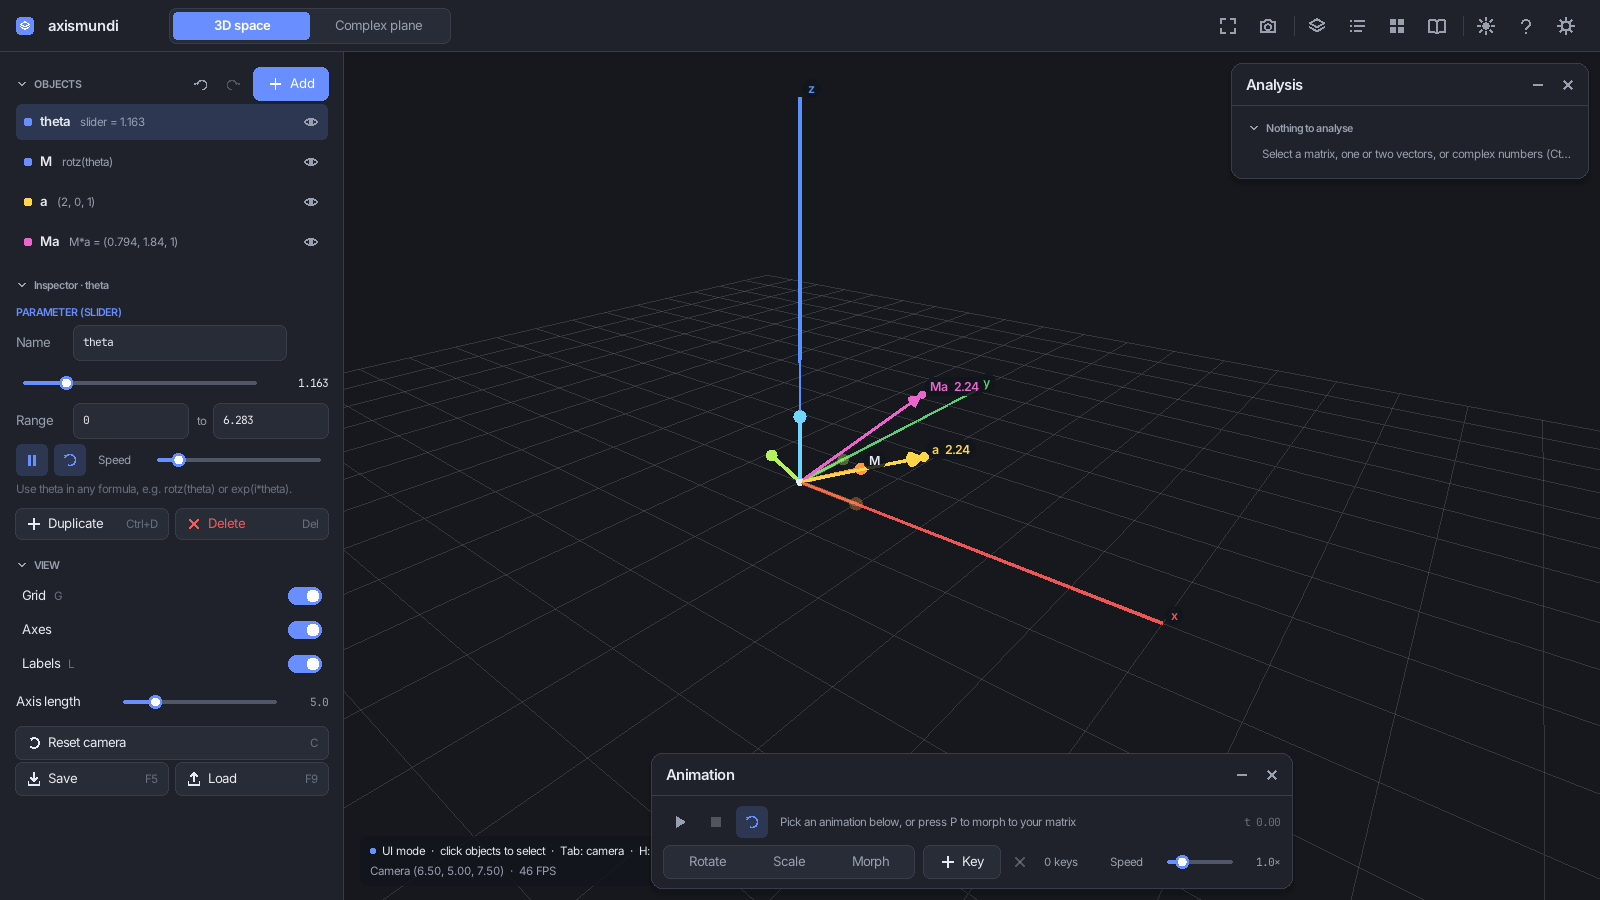
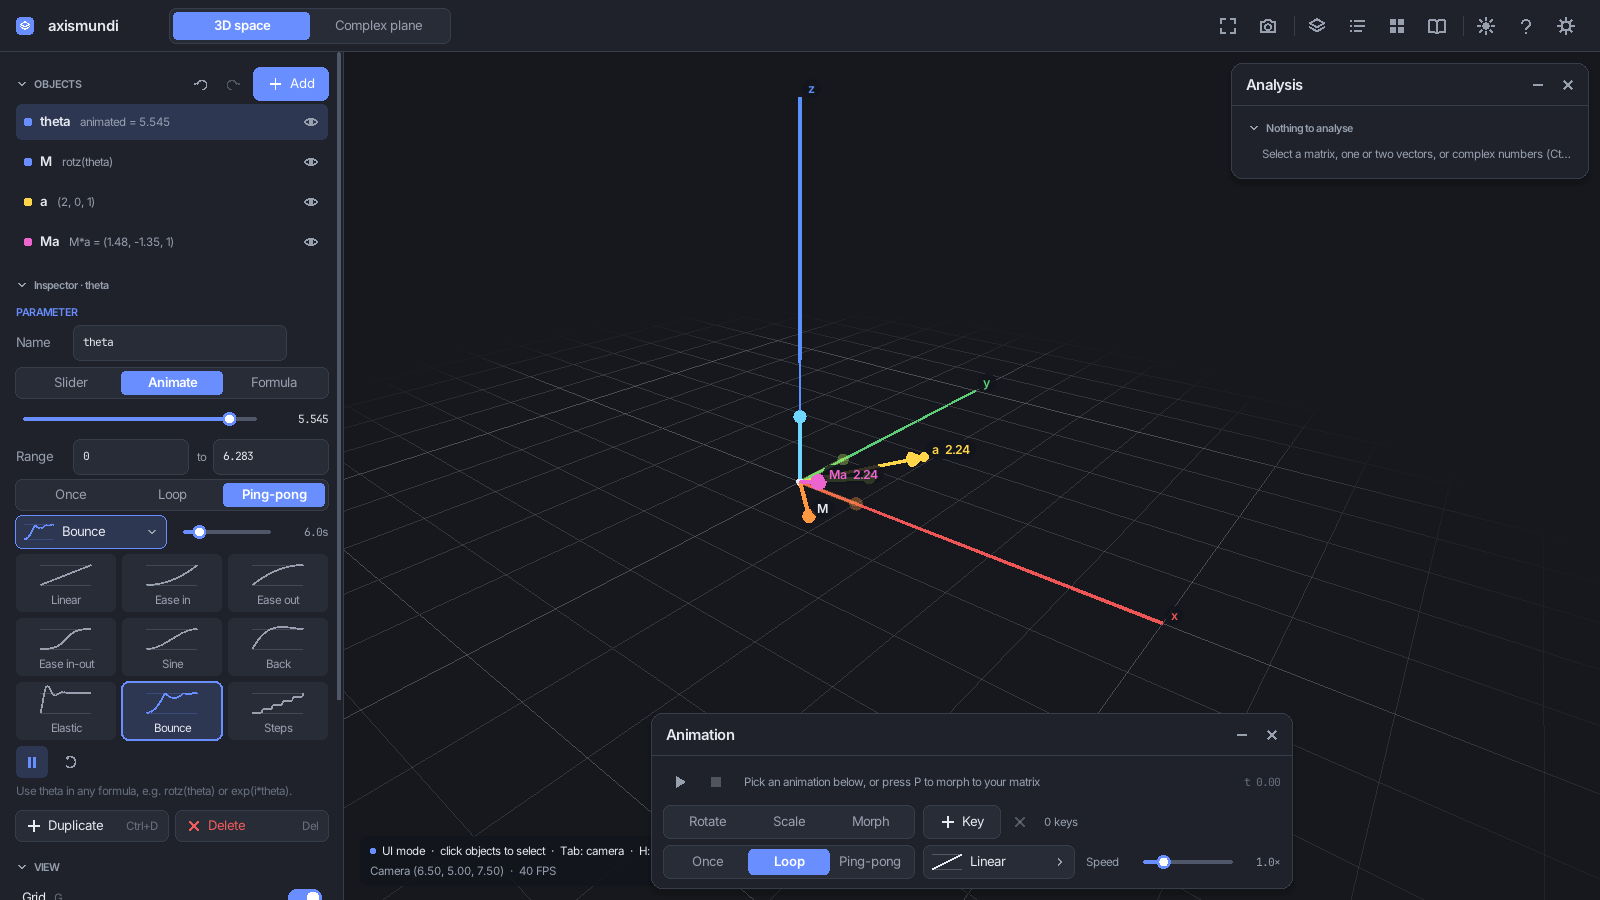
content and docs: parameter modes, easing, plot detail, grid size
- Gallery: Pendulum (a parameter that is a formula of time) and Stretch
  back and forth (ping-pong with ease-in-out, det stays 1)
- Tutorial (Parameters): steps for repeat + easing and for a formula of t
- README, UI_GUIDE, QUICKSTART: parameter modes, easing, per-unit plot
  detail, grid size; CLAUDE.md: provideSlots, Playback, density and the
  mesh lifetime
- Tour: pendulum shot; refreshed parameters and surface screenshots

diff --git a/src/edu/Examples.cpp b/src/edu/Examples.cpp
@@ -77,6 +77,33 @@ std::vector<Example> build() {
                         app.addObject(AppMode::Space3D, "vector", "Ma", {{"value", "M*a"}}, {{"mode", "formula"}});
                         app.select("theta");
                     }});
+    list.push_back({"Pendulum (formula of time)", C::Matrices,
+                    "θ is a formula of time: θ = π/4·cos(2t). The arm r hangs from (0, 0, 4) and swings with it; "
+                    "edit the formula to change the swing.",
+                    [](App& app) {
+                        fresh(app, AppMode::Space3D);
+                        app.addObject(AppMode::Space3D, "parameter", "theta", {{"formula", "pi/4*cos(2t)"}},
+                                      {{"mode", "formula"}, {"playing", "1"}});
+                        app.addObject(AppMode::Space3D, "vector", "r",
+                                      {{"value", "[3sin(theta), 0, -3cos(theta)]"}, {"tail", "[0, 0, 4]"}},
+                                      {{"mode", "formula"}});
+                        app.select("theta");
+                    }});
+    list.push_back({"Stretch back and forth", C::Matrices,
+                    "s runs from 0.5 to 2 and back (ping-pong) with an ease-in-out curve. M = diag(s, 1/s, 1) "
+                    "stretches one way and squeezes the other, so areas stay the same: det M = 1.",
+                    [](App& app) {
+                        fresh(app, AppMode::Space3D);
+                        app.addObject(AppMode::Space3D, "parameter", "s", {},
+                                      {{"value", "0.5"}, {"min", "0.5"}, {"max", "2"}, {"mode", "animate"},
+                                       {"anim.repeat", "2"}, {"anim.easing", "3"}, {"anim.duration", "3"},
+                                       {"playing", "1"}});
+                        app.addObject(AppMode::Space3D, "matrix", "M", {{"value", "scale(s, 1/s, 1)"}},
+                                      {{"mode", "formula"}});
+                        app.addObject(AppMode::Space3D, "vector", "a", {{"x", "1"}, {"y", "1"}, {"z", "0"}});
+                        app.addObject(AppMode::Space3D, "vector", "Ma", {{"value", "M*a"}}, {{"mode", "formula"}});
+                        app.select("s");
+                    }});
     list.push_back({"Non-uniform scale", C::Matrices,
                     "Stretches x by 2 and squeezes y to half. The axes are eigenvectors with λ = 2, 0.5 and 1.",
                     [](App& app) { matrixScene(app, Matrix3D({{{{2, 0, 0}}, {{0, 0.5f, 0}}, {{0, 0, 1}}}})); }});

diff --git a/src/edu/Tutorial.cpp b/src/edu/Tutorial.cpp
@@ -209,6 +209,28 @@ std::vector<Lesson> build() {
              return p && (p->playing() || std::fabs(p->number() - 0.5) > 0.2);
          },
          "The play button is in theta's inspector. Dragging the slider works too.", "parameter.play"},
+        {"Repeat and easing",
+         "Playing switched theta to Animate: it runs from min to max. Ping-pong runs back and forth, and the easing "
+         "curve shapes the motion (Ease in-out starts and stops gently, Bounce bounces at the end).",
+         nullptr, "Choose Ping-pong and a different easing for theta.",
+         [](App& app, const TutorialContext&) {
+             auto* p = dynamic_cast<scene::ParameterObject*>(app.object("theta"));
+             if (!p) return false;
+             Playback pb = p->playback();
+             return pb.repeat == Repeat::PingPong && pb.easing != Easing::Linear;
+         },
+         "Both are in theta's inspector, under the range, when the mode is Animate.", "parameter.easing"},
+        {"A formula of time",
+         "A parameter can also be a formula of t, its own clock in seconds. pi/4*sin(2t) swings back and forth "
+         "between ±45°; t/2 grows forever.",
+         nullptr, "Switch theta to Formula and type a formula that uses t, e.g. pi/4*sin(2t).",
+         [](App& app, const TutorialContext&) {
+             auto* p = dynamic_cast<scene::ParameterObject*>(app.object("theta"));
+             if (!p || p->mode() != scene::ParameterObject::Mode::Formula || !p->error().empty()) return false;
+             const scene::Field* f = p->field("formula");
+             return f && f->program.valid();
+         },
+         "The mode switch is at the top of theta's inspector. Press Play if the clock is paused.", "parameter.mode"},
     }});
 
     list.push_back({"Breaking a matrix down", "Rotate, stretch, rotate", {

diff --git a/src/app/Tour.cpp b/src/app/Tour.cpp
@@ -103,6 +103,10 @@ void Tour::buildSteps() {
     step("09b_animation_easing", [](App& app) {
         app.setAnimationStyle(Repeat::PingPong, Easing::Elastic, true);
     }, 40);
+    step("09c_pendulum", [](App& app) {
+        app.setAnimationStyle(Repeat::Loop, Easing::Linear, false);
+        runExample(app, "Pendulum (formula of time)");
+    }, 50);
     step("10_projection_example", [](App& app) {
         app.setAnimationStyle(Repeat::Loop, Easing::Linear, false);
         app.stopAnimation();

diff --git a/UI_GUIDE.md b/UI_GUIDE.md
@@ -69,8 +69,8 @@ Each space has its own list of objects. The side bar shows:
 | Vector | 3D | Components (x, y, z) or Formula; Starts at (tail point); length |
 | Matrix | 3D | Cells (3×3 / 4×4, presets) or Formula; determinant |
 | Eigenvectors | 3D | Matrix formula (e.g. `M`); dashed lines with dots at λv |
-| Function / Curve / Surface / Implicit | 3D | Expressions in x, y, t; ranges; Detail; Heat map; Next example |
-| Parameter | both | Slider, range, play / loop / speed |
+| Function / Curve / Surface / Implicit | 3D | Expressions in x, y, t; ranges; Detail per unit; Heat map; Next example |
+| Parameter | both | Slider / Animate / Formula; range; repeat style, easing, duration; play, restart |
 | Complex number | complex | Value; circle, cos/sin projections, helix options; length and angle |
 | Product | complex | Two factors; rotation and scaling construction; length and angle breakdown |
 
@@ -90,8 +90,25 @@ Problems are shown live: a red outline while typing a broken formula, an error l
 red summary in the list for errors such as unknown names, wrong types or circular references.
 
 ### Parameters
-A parameter is a named number with a slider. Use it in any formula; press **Play** to run it through its
-range (Loop restarts it at the end, Speed sets how fast). Several parameters can play at once.
+A parameter is a named number that can be used in any formula. The switch at the top of its inspector picks
+how it is driven:
+- **Slider**: set it by hand within its range.
+- **Animate**: Play runs it from min to max.
+  - **Once** stops at the end, **Loop** starts again, **Ping-pong** runs back and forth.
+  - The **easing** button opens a grid of curves: Linear, Ease in, Ease out, Ease in-out, Sine, Back
+    (overshoots), Elastic, Bounce and Steps. Hover one to read what it does.
+  - The slider next to it sets the duration of one run.
+- **Formula**: the value is a formula of `t`, the parameter's own clock in seconds, and may use other objects.
+  Examples: `2pi*t/5` (one turn every 5 s), `pi/4*sin(2t)`, `1 + k*cos(t)`. Play / pause runs the clock,
+  restart sets t back to 0, and "Wrap t after" can restart it periodically.
+
+Pressing Play on a slider switches it to Animate. Several parameters can play at once.
+
+### Plot detail
+**Detail** is set per unit of the range: samples per unit of x (functions) or t (curves), and grid cells per
+unit for surfaces and implicit curves. Doubling the range doubles the samples, so the plot stays as smooth.
+The line under the slider shows the actual count. Counts are capped for speed (20 000 samples, 400 × 400
+surface cells, 800 × 800 implicit cells), and the line says so when the cap applies.
 
 ## Text fields
 
@@ -105,7 +122,10 @@ range (Loop restarts it at the end, Speed sets how fast). Several parameters can
 z points up and the floor grid is the xy-plane, the usual math convention, so vectors and surfaces
 `z = f(x, y)` agree. The axes are x (red), y (green), z (blue). Matrices are drawn as their moved basis on top
 of the faint original basis. The Animation panel morphs the selected matrix (or the first one) from the
-identity.
+identity, with a repeat style (Once / Loop / Ping-pong) and an easing curve.
+
+The floor grid has a line every unit and a stronger one every 5 units, and fades out at its edge. **Grid size**
+in the View section sets how far it reaches (±5 to ±100 units).
 
 ## The complex plane
 
@@ -124,7 +144,7 @@ reference. Each tab keeps its own camera.
 
 ## View section
 
-- Grid (G), Axes, Labels (L), Axis length, Reset camera (C), Save (F5) / Load (F9) of `scene.txt`
+- Grid (G), Axes, Labels (L), Axis length, Grid size, Reset camera (C), Save (F5) / Load (F9) of `scene.txt`
 - Object colors are set per object: click the color swatch next to the name in the inspector (presets, hex
   value, "Theme color" resets it).
 

diff --git a/README.md b/README.md
@@ -15,8 +15,12 @@ and worked calculations.
   `Ma = M*a`, a matrix cell `cos(theta)`, a whole matrix `rotz(theta)` or `[u, v, w]` (vectors as columns).
   When an input changes, everything that depends on it updates. Circular references and missing names are
   reported on the objects involved.
-- **Parameters** are named sliders (θ, k, t, …) that can be used in any formula and **played** like an
-  animation, so a slider can turn a rotation matrix, reshape a surface or move e^(iθ) around the circle.
+- **Parameters** are named numbers (θ, k, …) usable in any formula, so they can turn a rotation matrix,
+  reshape a surface or move e^(iθ) around the circle. Each one is driven in one of three ways:
+  - a **slider**;
+  - an **animation** from min to max: once, loop or ping-pong, with an easing curve (ease in/out, sine,
+    back, elastic, bounce, steps) and a duration;
+  - a **formula of time** `t`, such as `pi/4*cos(2t)`, which may use other objects.
 - The **Add menu** offers templates for the current selection: sum, difference, cross product and projection
   of two vectors, M·v, the eigenvectors, inverse or transpose of a matrix, A·B, z₁·z₂, conjugates…
 - Undo/redo covers every change (Ctrl+Z / Ctrl+Y).
@@ -27,7 +31,9 @@ and worked calculations.
   - 3×3 / 4×4 matrices (by cells with presets, or by formula) drawn as the moved basis;
   - eigenvector sets;
   - plots: `y = f(x)`, curves `(x(t), y(t), z(t))`, surfaces `z = f(x, y)` and implicit curves
-    `f(x, y) = 0`, with heat maps.
+    `f(x, y) = 0`, with heat maps. Detail is set **per unit** (e.g. 30 samples per unit), so a wider range
+    stays just as smooth. Surfaces are shaded GPU meshes.
+  - a floor grid from ±5 to ±100 units, with major lines every 5 units.
 - **Complex plane** (key 2): complex numbers (e.g. `2 + i`, `z1*z2`, `exp(i*theta)`), with optional circle,
   cos/sin projections and the helix of e^(it), and products drawn as a rotation plus a scaling.
 
@@ -39,7 +45,8 @@ and worked calculations.
 - **Transformation breakdown** (B): the selected matrix as *rotate → stretch → rotate (→ move)*, played step
   by step.
 - **Calculation steps** (K): worked calculations with the selected objects' numbers.
-- **Animation**: morph from the identity to the selected matrix, rotation and scaling presets, keyframes.
+- **Animation**: morph from the identity to the selected matrix, rotation and scaling presets, keyframes,
+  with the same repeat styles and easing curves as parameters.
 - **Tutorial** (F1): 11 lessons with tasks that are checked as you work, including adding objects, formulas
   and parameters.
 - **Example gallery** (E): about 20 ready-made scenes.
@@ -160,7 +167,7 @@ Shortcuts are ignored while a text field is being edited.
     │   └── expr/             #   breakdown, worked explanations; typed expression engine
     ├── scene/                # object model: objects, spaces, dependencies, undo, files
     ├── view/                 # SceneView: draws the objects of a space
-    ├── animation/            # Animator
+    ├── animation/            # Playback (repeat styles, easing) and Animator
     ├── edu/                  # tutorial lessons and gallery examples
     ├── rendering/            # grid, arrows, plots, camera, labels
     ├── ui/                   # side bar (objects + inspector), panels, popovers, widgets

diff --git a/CLAUDE.md b/CLAUDE.md
@@ -66,7 +66,7 @@ src/
                       names, rename with reference rewrite, dependency-ordered evaluation, cycles),
                       Types (object classes + registry), Scene (2 spaces, selection, undo, files v2 + v1 import)
   view/SceneView      draws a space's objects (per-type), labels, colors, selection halo, plot cache
-  animation/          NO raylib: Animator
+  animation/          NO raylib: Playback (0..1 run: Once/Loop/PingPong + 9 easings, save/load), Animator
   edu/                Tutorial lessons (setup/check/anchor), Examples (gallery entries), built on App API
   rendering/          Grid, VectorRenderer::drawArrow, PlotRenderer (geometry from expressions + resolver),
                       CameraController, Labels, WorldMapping (math z-up ↔ raylib y-up)
@@ -91,6 +91,15 @@ docs/screenshots/     images for the docs, produced by --tour
   topological, cycles and missing names become object errors, `changedAt()` tells views what to redraw.
 - `Scene::commit()` after each user change pushes an undo snapshot (the whole scene serialized).
 - 3D space uses math coordinates with z up; draw with `mathToWorld()` (rendering/WorldMapping.hpp).
+- `SceneObject::provideSlots(expr::Slots&)` lets an object feed x/y/t to its own (non-plot) fields;
+  ParameterObject uses it for its clock t (Formula mode). Time-dependent objects can reuse it.
+- Parameters: `mode` prop slider|animate|formula; Animate state lives in props `anim.*` (via
+  `Playback::save/load` + `anim.phase`/`anim.direction`). Old files with `speed`/`loop` are converted in
+  `Scene::restore`.
+- Plots: `density` prop = samples (cells) per unit; `PlotObject::samples()` gives capped counts, which
+  SceneView passes to `PlotRenderer` as `samplesX/Y`. Old `resolution` props are converted after loading
+  (`Scene::convertOldPlots`). PlotRenderer uploads meshes once per change (indexed surface bands under
+  65 536 vertices, curve tubes, heat map) and frees them in its destructor (CPU-only after CloseWindow).
 
 ### Adding a new object type (e.g. quaternion, vector field, tensor)
 1. Model in `src/scene/Types.{hpp,cpp}`: subclass `SceneObject`; in the constructor `addField(...)` and

diff --git a/QUICKSTART.md b/QUICKSTART.md
@@ -30,8 +30,14 @@ make run
 
 ## Parameters
 
-Add a **Parameter** (a slider), give it a name like `theta`, and use it in any formula, for example a matrix
-`rotz(theta)` or a surface `sin(theta*x)`. Press its **Play** button to animate it.
+Add a **Parameter**, give it a name like `theta`, and use it in any formula, for example a matrix
+`rotz(theta)` or a surface `sin(theta*x)`. A parameter can be:
+- a **Slider**;
+- an **Animation** (Play): once, loop or ping-pong, with an easing curve;
+- a **Formula** of time `t`, such as `pi/4*cos(2t)`.
+
+Plot **Detail** is per unit of the range, so wide plots stay smooth. **Grid size** (View section) makes the
+floor grid larger.
 
 ## The two spaces
 
